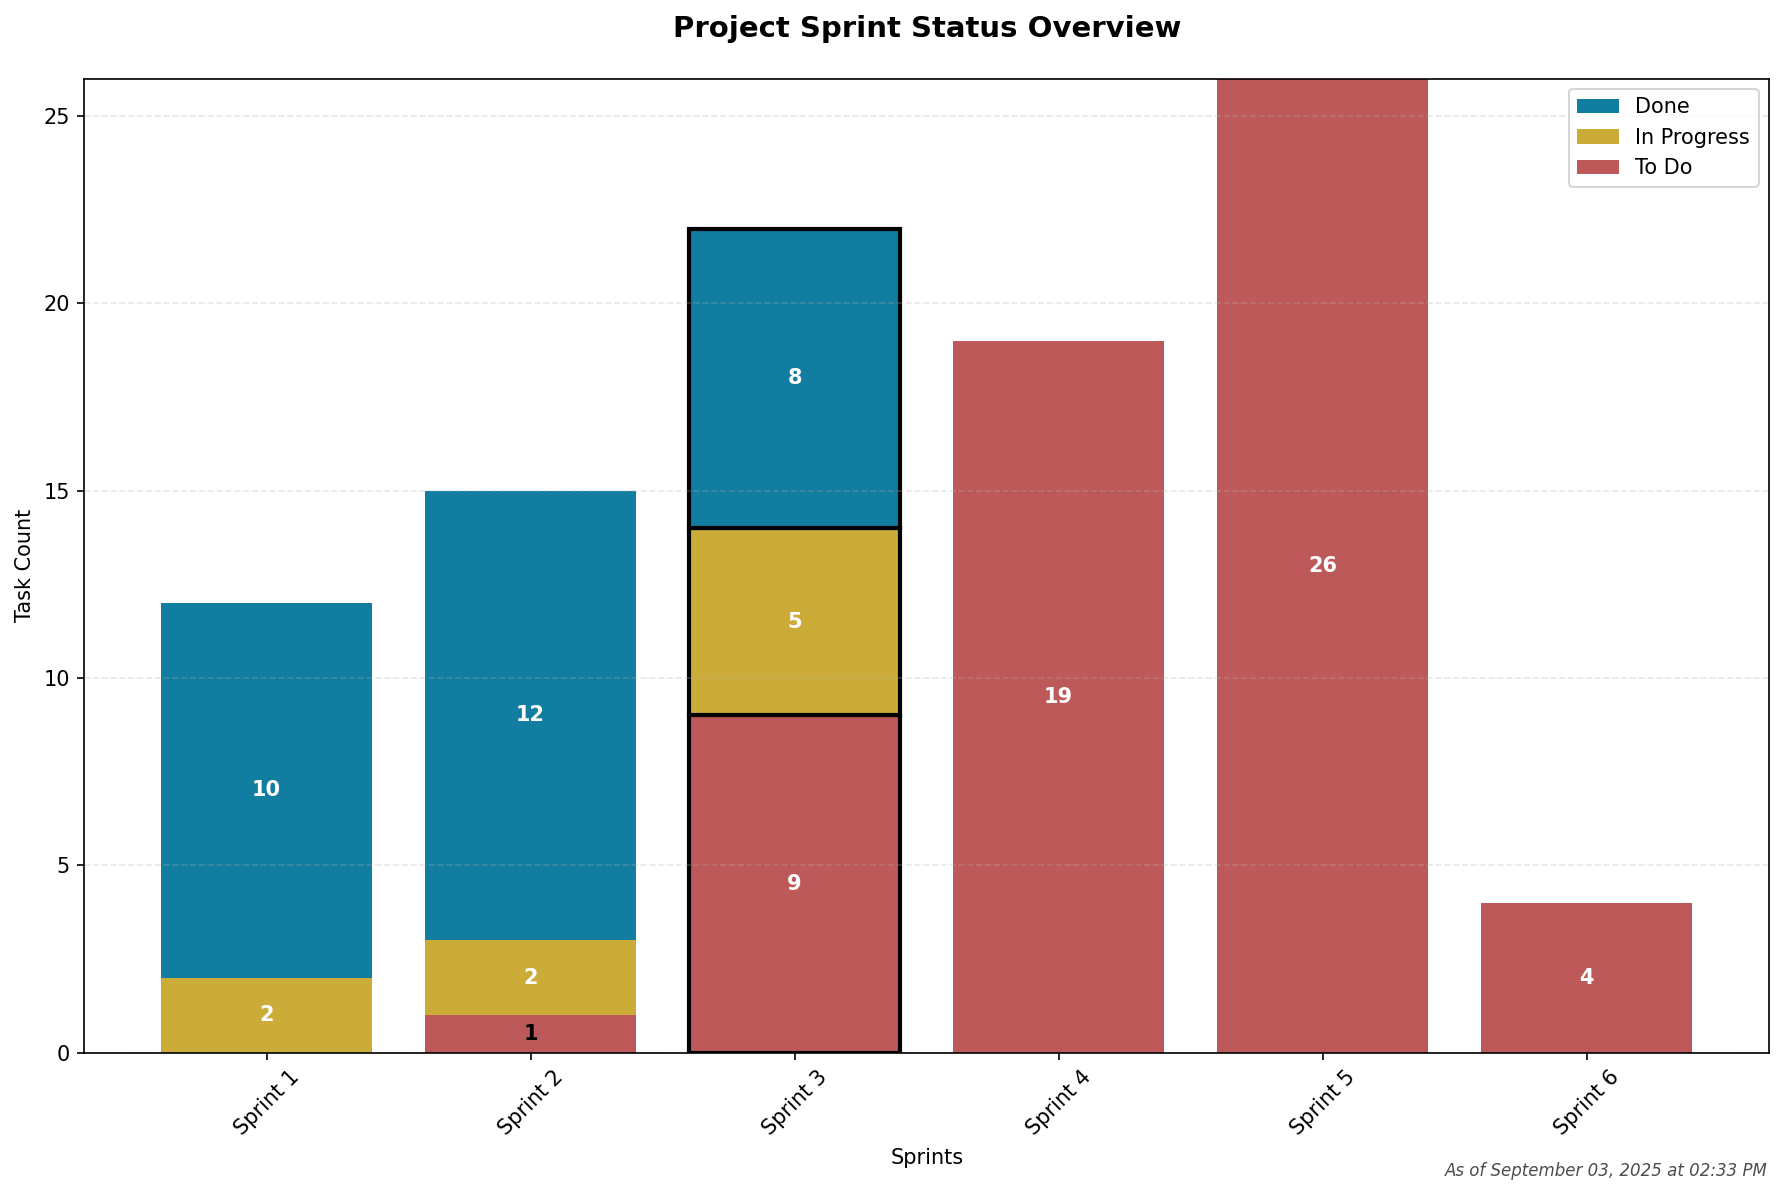
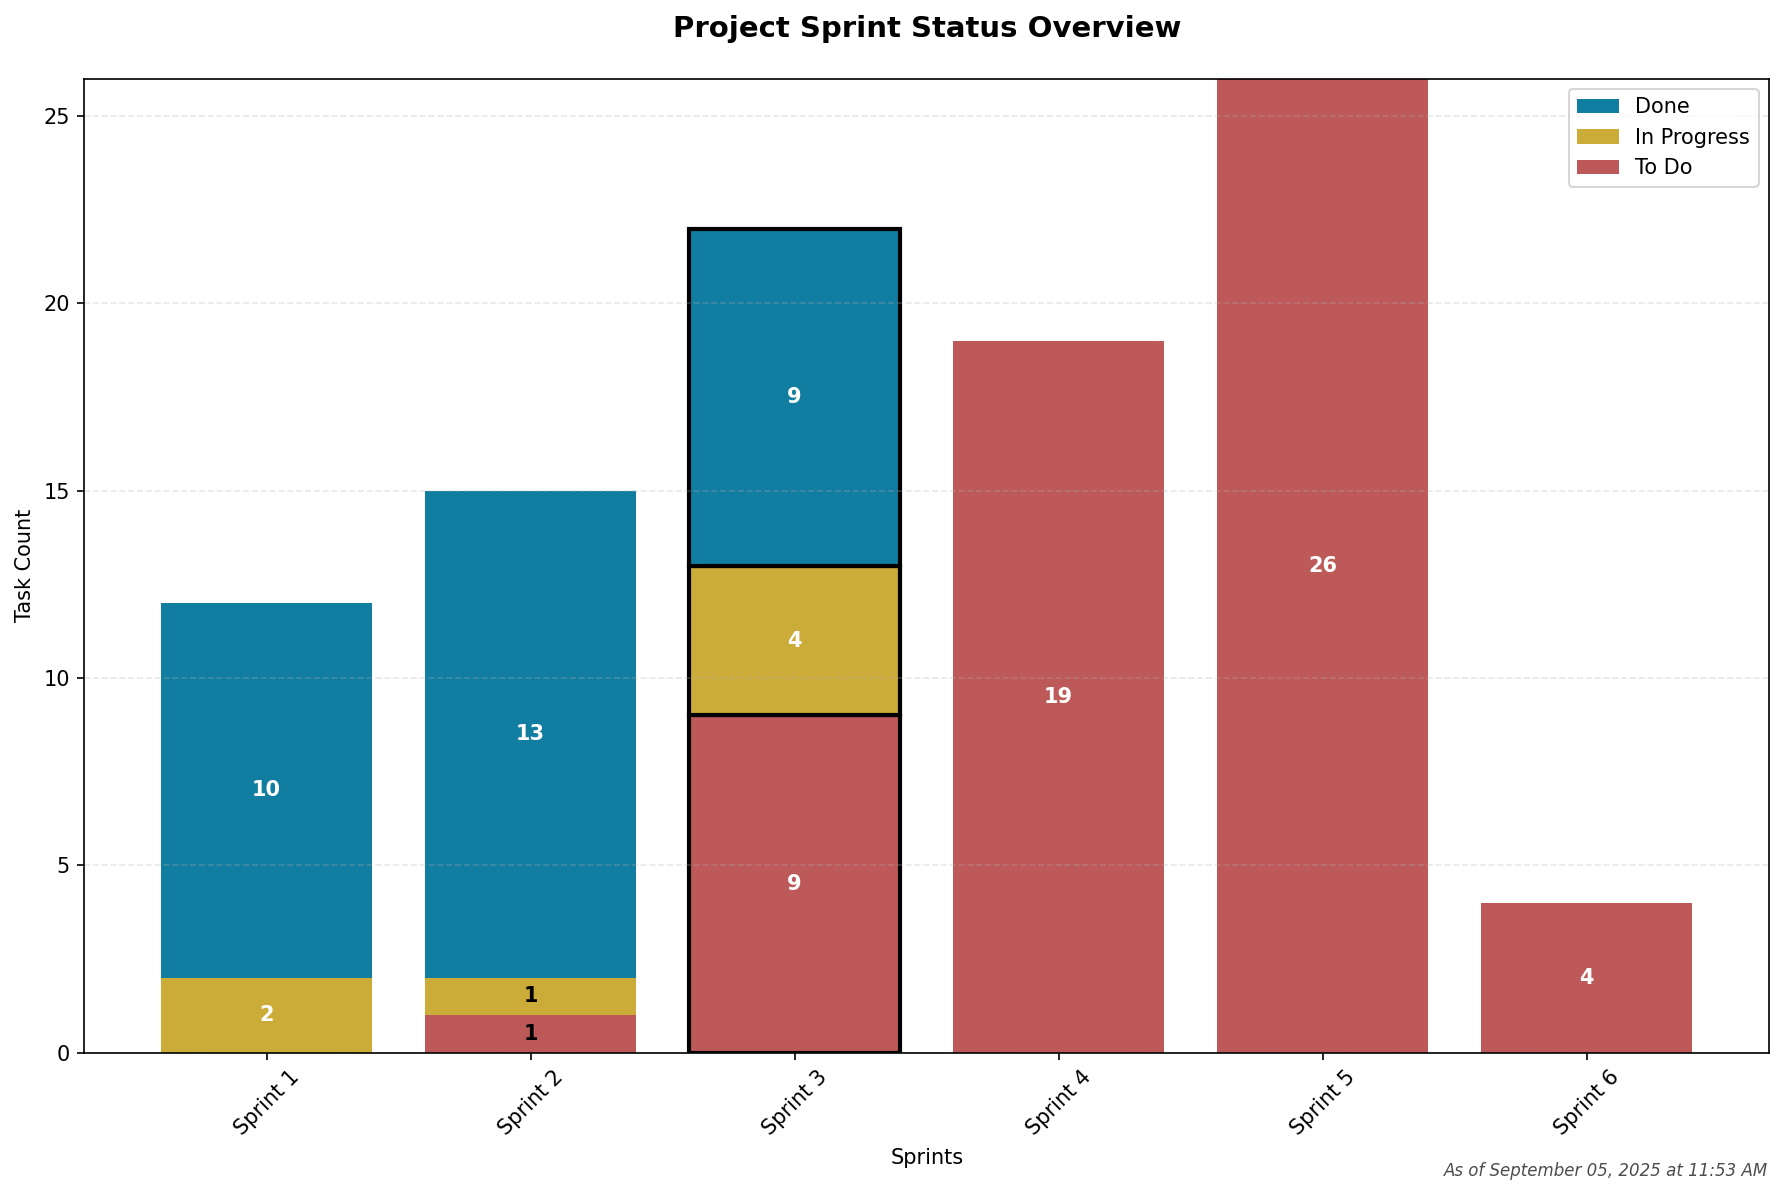
Update sprint status chart and project tracker progress
Marked 'Define data sources and access method' and 'Convert SQL work to PySpark + AWS Glue for automated ETL' as complete in project_tracker.md. Updated sprint_status_chart.png to reflect current progress.

diff --git a/project_tracker.md b/project_tracker.md
@@ -83,8 +83,7 @@
 ## 🔄 Sprint 2: Data Infrastructure – Infra Setup, Data Intake, and Data Processing *(Aug 18–Aug 31)*
 
 ### Sprint Goals
-- [~] Define data sources and access method (AWS Glue + PySpark)
-    
+- [x] Define data sources and access method (AWS Glue + PySpark)
 - [x] Define SQL query/joins for main data ingestion
     - [x] Customer + Account Data
     - [x] Transaction Data
@@ -121,7 +120,7 @@
     - [x] Add time-window aggregations
 - [x] Define & document input-output data contract (schema enforcement and partition strategy)
     - [~] Start Feature Store data dictionary documentation (markdown >> Confluence)
-- [~] Convert SQL work to PySpark + AWS Glue for automated ETL
+- [x] Convert SQL work to PySpark + AWS Glue for automated ETL
     - [x] Develop master config and python class for Spark session and DB connections
     - [x] Choose feature store snapshot frequency
 - [x] Implement initial historical backfill operation
